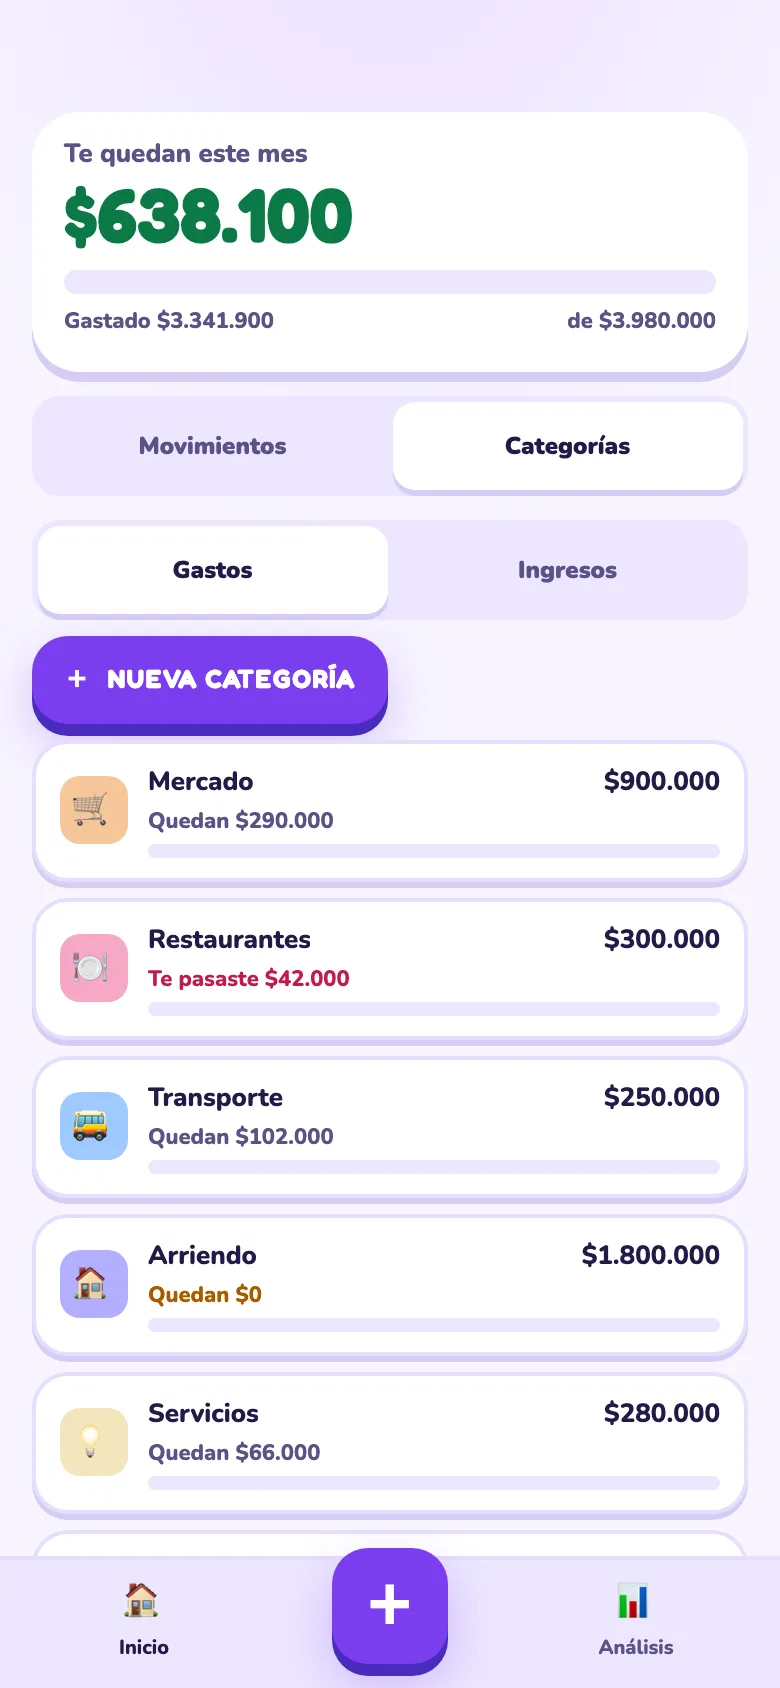
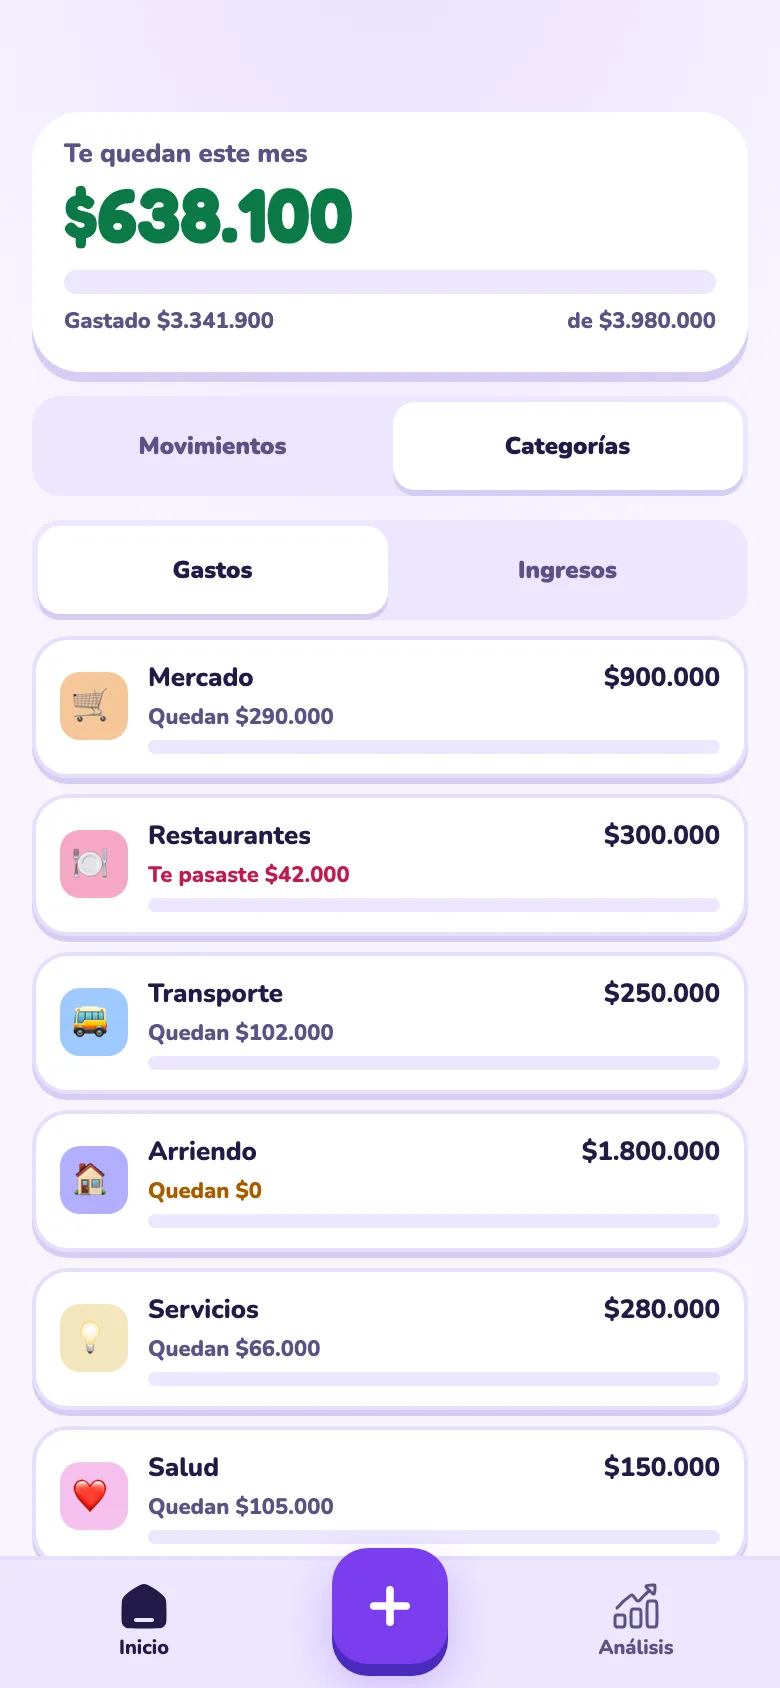
feat(web): nueva categoría is a dashed row after the categories, as on the phone
The purple + beside the Gastos | Ingresos switch looked like the add-a-movement button. The
switch now takes the whole row and "Nueva categoría" is a dashed row, as wide as a category,
after the list and before Archivadas (the phone's change in 92aa1bcf). The landing's app
screenshots are regenerated from the demo, so its budgets phone shows the tab as it is now.

Changed region(s): [[0.0308, 0.3697, 0.9538, 0.9858]]

diff --git a/apps/web/app/features/categories/CategoriesTab.tsx b/apps/web/app/features/categories/CategoriesTab.tsx
@@ -4,6 +4,7 @@ import { useNavigate } from "react-router";
 import { useTranslations } from "use-intl";
 import { CategoryRow } from "../../ui/CategoryRow.tsx";
 import { categoryLook } from "../../ui/category-look.ts";
+import { Icon } from "../../ui/Icon.tsx";
 import { PressButton } from "../../ui/PressButton.tsx";
 import { SegmentedControl } from "../../ui/SegmentedControl.tsx";
 import { useAppPath } from "../home/app-path.ts";
@@ -27,7 +28,8 @@ const NO_LINE = { budget: null, spent: 0, remaining: null, state: "ok" } as cons
  * Home's Categorías tab: where categories are managed (founder decision 2026-10-24; there is no
  * separate page). A Gastos | Ingresos switch; one row per category of that kind, opening its
  * detail (a spending category with its month's budget bar, an income one with "Ingreso"); "Nueva
- * categoría"; and the archived ones of that kind folded at the end, each with "Restaurar". An
+ * categoría", a dashed row after them (under the empty line when there are none), as on the phone;
+ * and the archived ones of that kind folded at the end, each with "Restaurar". An
  * archived spending category that has spending in the month on screen is one of the rows instead,
  * noted "archivada" (`categoryLists`). Renaming,
  * the icon and colour, and archiving are in the detail.
@@ -53,23 +55,15 @@ export function CategoriesTab({ summary, categories, currency, month }: Categori
 
   return (
     <>
-      <div className="flex flex-wrap items-center gap-(--space-2)">
-        <div className="min-w-[200px] flex-1">
-          <SegmentedControl<CategoryKind>
-            label={t("kind_label")}
-            value={kind}
-            options={[
-              { value: "expense", label: t("expenses") },
-              { value: "income", label: t("income") },
-            ]}
-            onChange={setKind}
-          />
-        </div>
-        <PressButton size="sm" onClick={sheets.startCreate}>
-          <span aria-hidden="true">＋</span>
-          {t("add")}
-        </PressButton>
-      </div>
+      <SegmentedControl<CategoryKind>
+        label={t("kind_label")}
+        value={kind}
+        options={[
+          { value: "expense", label: t("expenses") },
+          { value: "income", label: t("income") },
+        ]}
+        onChange={setKind}
+      />
       {rows.length === 0 ? (
         <p className="m-0 text-[14px] font-bold text-ink-muted">
           {kind === "expense" ? tHome("no_expense_categories") : t("none_of_kind")}
@@ -97,6 +91,12 @@ export function CategoriesTab({ summary, categories, currency, month }: Categori
           );
         })
       )}
+      {/* After the categories (and before the archived ones), as on the phone: a dashed row as
+          wide as them, so the page's one purple + stays the add-a-movement button. */}
+      <button type="button" className="lk-add-row" onClick={sheets.startCreate}>
+        <Icon name="plus" size={20} />
+        {t("add")}
+      </button>
       {archived.length > 0 && (
         <div className="flex flex-col gap-(--space-2)">
           <PressButton

diff --git a/apps/web/app/features/home/Home.stories.tsx b/apps/web/app/features/home/Home.stories.tsx
@@ -133,7 +133,17 @@ export const Budgets: Story = {
       "aria-selected",
       "true",
     );
-    await expectTarget(panel.getByRole("button", { name: "Nueva categoría" }));
+    // As on the phone: the switch takes its whole row, and "Nueva categoría" is a dashed row
+    // after the categories, so the page's one purple + stays the add-a-movement button.
+    const add = panel.getByRole("button", { name: "Nueva categoría" });
+    await expectTarget(add);
+    await expect(add).toHaveClass("lk-add-row");
+    await expect(add).not.toHaveClass("lk-btn-primary");
+    const rows = panel.getAllByRole("button", { name: /Quedan|Te pasaste|Sin presupuesto/ });
+    const last = rows.at(-1);
+    if (!last) throw new Error("no category rows");
+    await expect(last.compareDocumentPosition(add) & Node.DOCUMENT_POSITION_FOLLOWING).toBeTruthy();
+    await expect(add.getBoundingClientRect().height).toBeGreaterThanOrEqual(52);
     await expect(panel.queryByRole("button", { name: /^Archivadas/ })).toBeNull();
     await expect(panel.queryByRole("button", { name: /^Salario/ })).toBeNull();
     // Wambi talks about the month: the worst category first, except on its last day, when he

diff --git a/apps/web/app/styles/app.css b/apps/web/app/styles/app.css
@@ -1125,6 +1125,33 @@
     background: var(--surface-sunken);
   }
 
+  /* "Nueva categoría" after the categories: a dashed row as wide as them, its name written, at
+     least 52px tall (the phone's `_AddRow`). */
+  .lk-add-row {
+    display: flex;
+    align-items: center;
+    justify-content: center;
+    gap: var(--space-2);
+    min-height: 52px;
+    padding: var(--space-2) var(--space-3);
+    border: 2px dashed var(--stroke);
+    border-radius: var(--radius-lg);
+    background: transparent;
+    color: var(--ink);
+    font-family: var(--font-display);
+    font-size: 16px;
+    font-weight: 700;
+    cursor: pointer;
+    transition: background-color 120ms ease;
+  }
+  .lk-add-row:active {
+    background: var(--surface-row);
+  }
+  .lk-add-row:focus-visible {
+    outline: 3px solid var(--focus);
+    outline-offset: 2px;
+  }
+
   .lk-nudge {
     display: flex;
     align-items: center;
